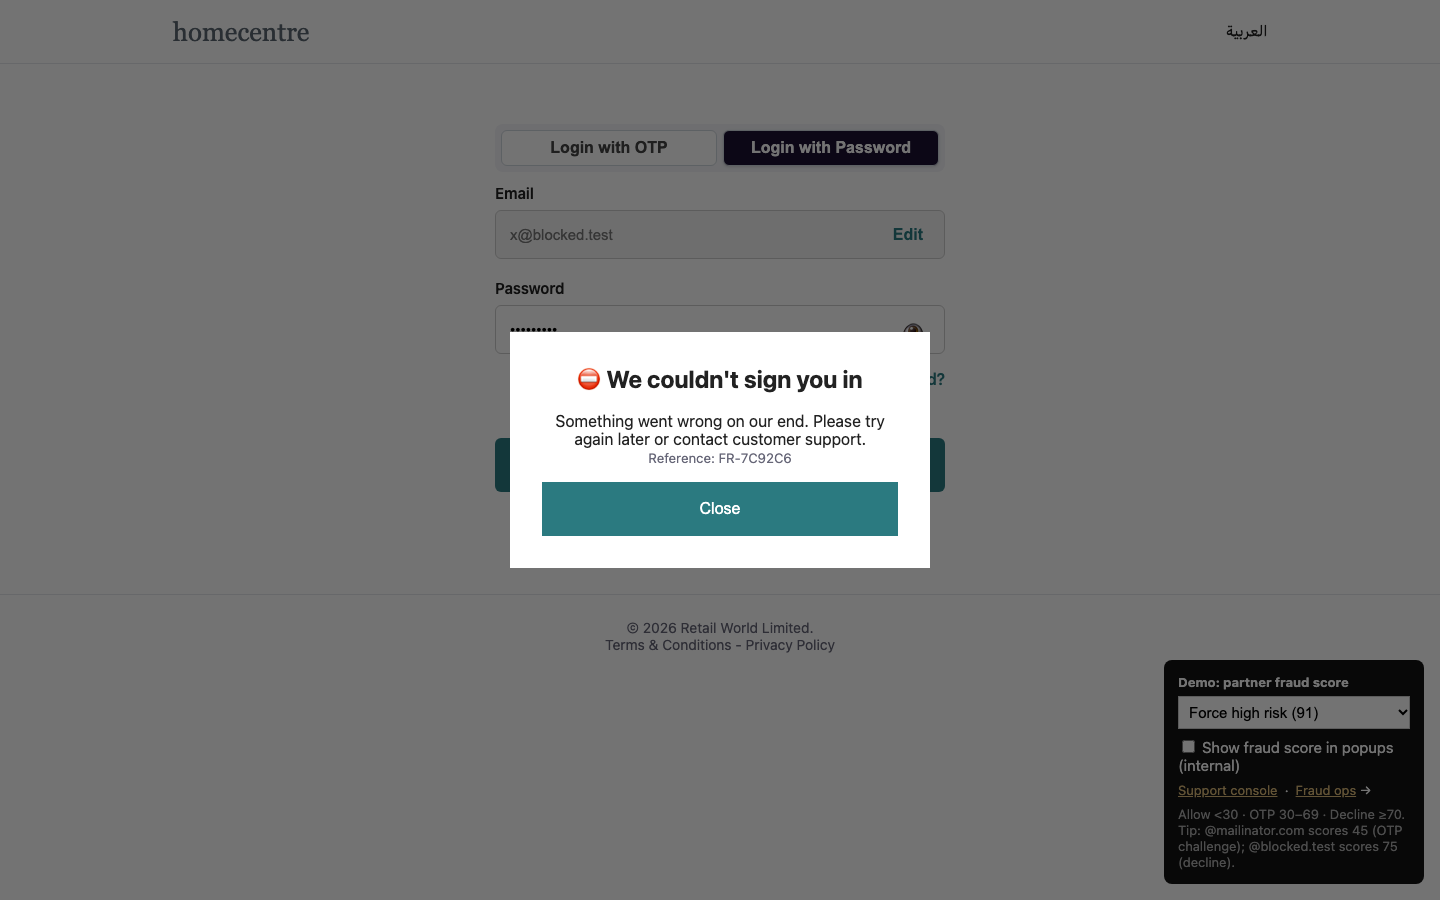
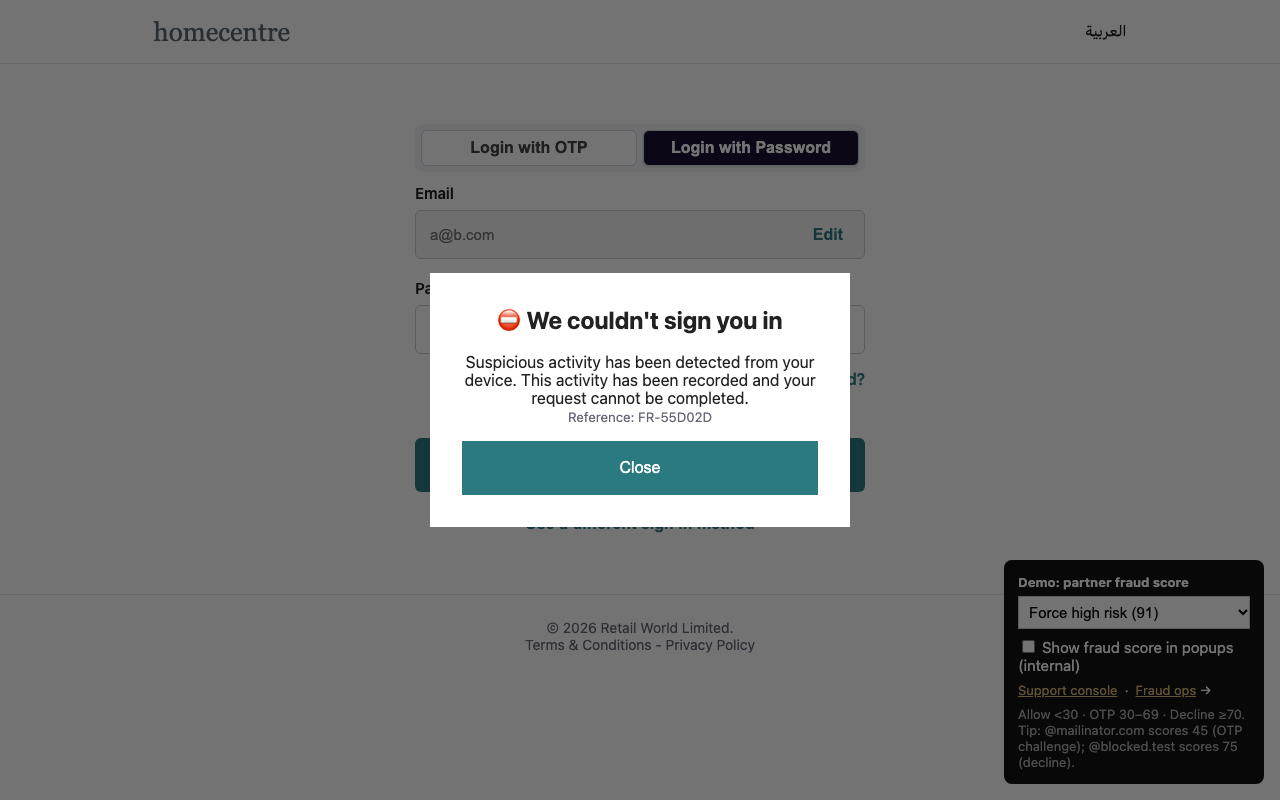
Deterrent decline message

diff --git a/index.html b/index.html
@@ -473,8 +473,9 @@ function verifyOtpApi({ sessionId, code }) {
 
 const $ = (s) => document.querySelector(s);
 const card = $('#card'), modal = $('#m');
-const show = (html) => { card.style.width = ''; card.innerHTML = html.replace(VAGUE, `${VAGUE}<br><small style="color:#667">Reference: ${lastRef}</small>`); modal.classList.add('show'); };
+const show = (html) => { card.style.width = ''; card.innerHTML = html.replace(VAGUE, `${VAGUE}<br><small style="color:#667">Reference: ${lastRef}</small>`).replace(DECLINE_MSG, `${DECLINE_MSG}<br><small style="color:#667">Reference: ${lastRef}</small>`); modal.classList.add('show'); };
 const reasons = (r) => r && r.length ? `<ul class="reasons">${r.map(x=>`<li>${x}</li>`).join('')}</ul>` : '';
+const DECLINE_MSG = 'Suspicious activity has been detected from your device. This activity has been recorded and your request cannot be completed.';
 const VAGUE = 'Something went wrong on our end. Please try again later or contact customer support.';
 const meta = (d) => !$('#showfraud').checked ? '' : `<span class="badge ${d.decision==='ALLOW'?'allow':d.decision==='DECLINE'?'decline':'challenge'}">Fraud score ${d.score} → ${d.decision}</span>${reasons(d.reasons)}`;
 
@@ -489,7 +490,7 @@ function success(d) {
   $('#tocheckout').onclick = () => { signedIn = true; modal.classList.remove('show'); location.hash = '#checkout'; };
 }
 function decline(d, msg) {
-  show(`<h2>⛔ ${flow === 'reset' ? "We couldn't process your request" : flow === 'signin' ? "We couldn't sign you in" : "We couldn't create your account"}</h2>${d ? meta(d) : ''}<p>${msg || 'Something went wrong on our end. Please try again later or contact customer support.'}</p><button class="btn" onclick="modal.classList.remove('show')">Close</button>`);
+  show(`<h2>⛔ ${flow === 'reset' ? "We couldn't process your request" : flow === 'signin' ? "We couldn't sign you in" : "We couldn't create your account"}</h2>${d ? meta(d) : ''}<p>${msg || 'Suspicious activity has been detected from your device. This activity has been recorded and your request cannot be completed.'}</p><button class="btn" onclick="modal.classList.remove('show')">Close</button>`);
 }
 function challenge(d) {
   show(`<h2>🔐 Verify it's you</h2>${meta(d)}
@@ -526,7 +527,7 @@ document.querySelectorAll('#checkout .opt input[type=radio]').forEach((r) => r.a
 }));
 $('#paynow').onclick = () => {
   const d = checkoutRisk('Payment (Pay Now)');
-  if (d.decision === 'DECLINE') return show(`<h2>⛔ We couldn't process this payment</h2>${meta(d)}<p>Something went wrong on our end. Please try again later or contact customer support.</p><button class="btn" onclick="modal.classList.remove('show')">Close</button>`);
+  if (d.decision === 'DECLINE') return show(`<h2>⛔ We couldn't process this payment</h2>${meta(d)}<p>Suspicious activity has been detected from your device. This activity has been recorded and your request cannot be completed.</p><button class="btn" onclick="modal.classList.remove('show')">Close</button>`);
   if (d.decision === 'CHALLENGE_OTP') {
     show(`<h2>🔐 Verify this payment</h2>${meta(d)}<p>Enter the 6-digit code sent to your mobile.<br><small>Demo OTP: <b>${d.demoOtp}</b></small></p>
       <input class="otp" id="otp" maxlength="6" inputmode="numeric"><div class="err" id="oerr"></div><button class="btn" id="vbtn">Verify &amp; Pay</button>`);
@@ -574,7 +575,7 @@ function redeemWithFraudCheck(points, onOk) {
   const d = signupApi({ email: '', phone: '', signals: FraudSDK.collect(), scenario: $('#scenario').value, action: 'Shukran redemption' });
   const apply = () => { shkUsed = points; renderShk(); modal.classList.remove('show'); if (onOk) onOk(); };
   if (d.decision === 'ALLOW' || (d.decision === 'CHALLENGE_OTP' && otpVerified)) return apply();
-  if (d.decision === 'DECLINE') return show(`<h2>⛔ We couldn't redeem Shukrans</h2>${meta(d)}<p>Something went wrong on our end. Please try again later or contact customer support.</p><button class="btn" onclick="modal.classList.remove('show')">Close</button>`);
+  if (d.decision === 'DECLINE') return show(`<h2>⛔ We couldn't redeem Shukrans</h2>${meta(d)}<p>Suspicious activity has been detected from your device. This activity has been recorded and your request cannot be completed.</p><button class="btn" onclick="modal.classList.remove('show')">Close</button>`);
   show(`<h2>🔐 Verify it's you</h2>${meta(d)}<p>Enter the 6-digit code sent to your mobile to redeem ${points} Shukrans.<br><small>Demo OTP: <b>${d.demoOtp}</b></small></p>
     <input class="otp" id="otp" maxlength="6" inputmode="numeric"><div class="err" id="oerr"></div><button class="btn" id="vbtn">Verify</button>`);
   $('#vbtn').onclick = () => {
@@ -642,7 +643,7 @@ const addrForm = (id, title, btn) => `<form id="${id}" class="afm"><button type=
 function guardAddressAction(label, apply, prefix = 'Address: ', phone = '') {
   const d = signupApi({ email: '', phone, signals: FraudSDK.collect(), scenario: $('#scenario').value, action: prefix + label });
   if (d.decision === 'ALLOW' || (d.decision === 'CHALLENGE_OTP' && otpVerified)) return apply();
-  if (d.decision === 'DECLINE') return show(`<h2>⛔ We couldn't ${label}</h2>${meta(d)}<p>Something went wrong on our end. Please try again later or contact customer support.</p><button class="btn" onclick="modal.classList.remove('show')">Close</button>`);
+  if (d.decision === 'DECLINE') return show(`<h2>⛔ We couldn't ${label}</h2>${meta(d)}<p>Suspicious activity has been detected from your device. This activity has been recorded and your request cannot be completed.</p><button class="btn" onclick="modal.classList.remove('show')">Close</button>`);
   show(`<h2>🔐 Verify it's you</h2>${meta(d)}<p>Enter the 6-digit code sent to ${phone ? `+968 ${phone.slice(0, 2)}••••${phone.slice(-2)}` : 'your mobile'} to ${label}.<br><small>Demo OTP: <b>${d.demoOtp}</b></small></p>
     <input class="otp" id="otp" maxlength="6" inputmode="numeric"><div class="err" id="oerr"></div><button class="btn" id="vbtn">Verify</button>`);
   $('#vbtn').onclick = () => {
@@ -730,7 +731,7 @@ $('#addnew').onclick = (e) => {
     };
     const d = signupApi({ email: '', phone: '', signals: FraudSDK.collect(), scenario: $('#scenario').value, action: 'Address: add new address' });
     if (d.decision === 'ALLOW' || (d.decision === 'CHALLENGE_OTP' && otpVerified)) return save();
-    if (d.decision === 'DECLINE') return show(`<h2>⛔ We couldn't add this address</h2>${meta(d)}<p>Something went wrong on our end. Please try again later or contact customer support.</p><button class="btn" onclick="modal.classList.remove('show')">Close</button>`);
+    if (d.decision === 'DECLINE') return show(`<h2>⛔ We couldn't add this address</h2>${meta(d)}<p>Suspicious activity has been detected from your device. This activity has been recorded and your request cannot be completed.</p><button class="btn" onclick="modal.classList.remove('show')">Close</button>`);
     show(`<h2>🔐 Verify it's you</h2>${meta(d)}<p>Enter the 6-digit code sent to your mobile to add a new address.<br><small>Demo OTP: <b>${d.demoOtp}</b></small></p>
       <input class="otp" id="otp" maxlength="6" inputmode="numeric"><div class="err" id="oerr"></div><button class="btn" id="vbtn">Verify</button>`);
     $('#vbtn').onclick = () => {
@@ -853,7 +854,7 @@ function renderAdmin() {
   $('#adetail').innerHTML = `<h3>${esc(e.ref)} <span class="pill2 ${PILL[e.decision][0]}">${PILL[e.decision][1]}</span></h3>
     <div class="anote">${new Date(e.ts).toLocaleString()} &middot; ${esc(e.user)} &middot; ${esc(e.action)}</div>
     ${e.ctx ? `<h4>Order details</h4><div>Payment method selected: <b>${esc(e.ctx.payment)}</b><br>Order total: <b>${esc(e.ctx.total)}</b>${e.ctx.shukrans ? `<br>Shukrans applied: <b>${e.ctx.shukrans}</b>` : ''}</div>` : ''}
-    <h4>What the customer saw</h4><div>${e.decision === 'DECLINE' || /DECLINED/.test(e.final) ? 'Generic message: "Something went wrong on our end&hellip;" with this reference.' : e.decision === 'CHALLENGE_OTP' ? 'An OTP prompt to their mobile.' : 'Nothing &mdash; the action was allowed.'}</div>
+    <h4>What the customer saw</h4><div>${e.decision === 'DECLINE' || /DECLINED/.test(e.final) ? 'Deterrent message: "Suspicious activity has been detected from your device&hellip;" with this reference.' : e.decision === 'CHALLENGE_OTP' ? 'An OTP prompt to their mobile.' : 'Nothing &mdash; the action was allowed.'}</div>
     <h4>Partner fraud score</h4><div><b>${e.score}</b> / 100 &nbsp;(allow &lt;${THRESHOLDS.challenge}, OTP ${THRESHOLDS.challenge}&ndash;${THRESHOLDS.decline - 1}, decline &ge;${THRESHOLDS.decline})</div>
     <h4>Why (internal)</h4><ul>${e.reasons.map((r) => `<li>${esc(r)}</li>`).join('')}</ul>
     <h4>OTP / final outcome</h4><div>OTP: ${esc(e.otp)} &middot; Final: <b>${esc(e.final)}</b></div>

diff --git a/README.md b/README.md
@@ -33,7 +33,7 @@ Everything is in one file: a mock partner SDK (signal collection), a rule-based 
 Starts at the cart (`#cart`), then sign in / sign up / forgot password / **Checkout as a guest**, then checkout and payment. Fraud checks run on guest checkout (Allow → straight to checkout, OTP band → verify first, Decline → button disabled), sign-in, sign-up, forgot password, add/edit/delete/default address, Shukran redemption, checkout load (Cash on Delivery is greyed out unless the decision is Allow) and Pay Now.
 
 - OTP is verified once per session; medium-risk address and Shukran steps then skip it. Pay Now always re-challenges. High risk always declines.
-- Declines never reveal the reason: customers see a vague "Something went wrong" message plus a reference code.
+- Score-based declines show a deterrent message ("Suspicious activity has been detected from your device. This activity has been recorded...") plus a reference code, without revealing score or rules. OTP expiry/lockout keeps a generic "Something went wrong" message.
 
 ## Demo controls
 
